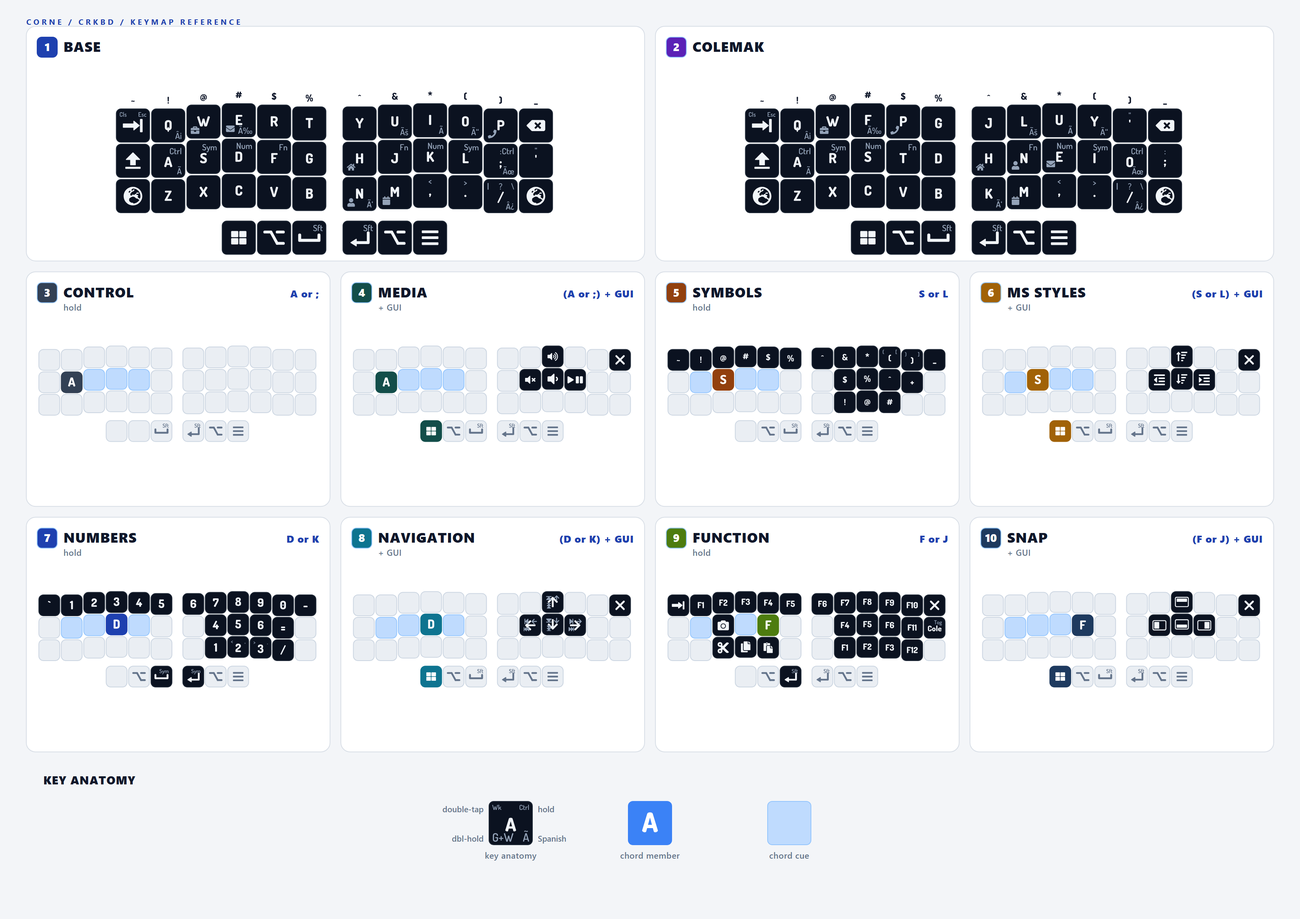
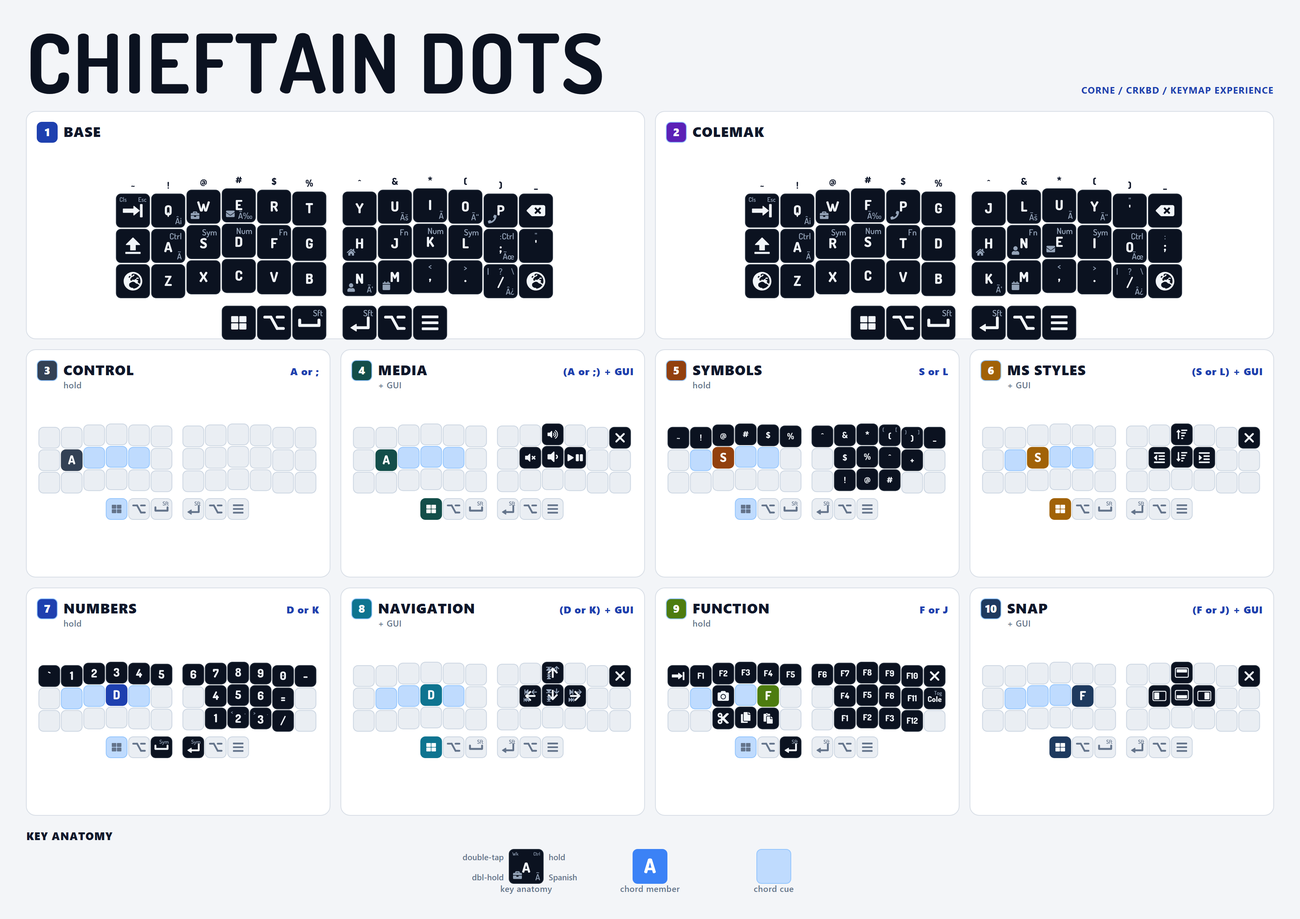
Make Spanish overlay transparent

diff --git a/tools/printable-guide/render_corne_guide.py b/tools/printable-guide/render_corne_guide.py
@@ -32,6 +32,7 @@ TITLE_H = 144
 
 BLUE       = "#1e40af"
 BLUE_DEEP  = "#1e3a8a"
+KEY_DARK   = "#0b1220"
 INK        = "#0f172a"
 MUTED      = "#64748b"
 BG         = "#f3f5f8"
@@ -81,7 +82,7 @@ SYMBOLS = [
      K(""), K("$"), K("%"), K("^"), K("+"), K("")],
     [K(""), K(""), K(""), K(""), K(""), K(""),
      K(""), K("!"), K("@"), K("#"), K(""), K("")],
-    [K(""), K("_KEY_ALT"), K("_KEY_SPACE","Sft"), K("_KEY_ENTER","Sft"), K("_KEY_ALT"), K("_KEY_MENU")],
+    [K("_KEY_GUI"), K("_KEY_ALT"), K("_KEY_SPACE","Sft"), K("_KEY_ENTER","Sft"), K("_KEY_ALT"), K("_KEY_MENU")],
 ]
 
 # NUMBERS â€” full top-row digits, right-hand numpad below.
@@ -95,7 +96,7 @@ NUMBERS = [
      K(""), K("4"), K("5"), K("6"), K("="), K("")],
     [K(""), K(""), K(""), K(""), K(""), K(""),
      K(""), K("1"), K("2", ",", "<"), K("3", ".", ">"), K("/"), K("")],
-    [K(""), K("_KEY_ALT"), K("_KEY_SPACE","Sym"),
+    [K("_KEY_GUI"), K("_KEY_ALT"), K("_KEY_SPACE","Sym"),
      K("_KEY_ENTER","Sym"), K("_KEY_ALT"), K("_KEY_MENU")],
 ]
 
@@ -246,14 +247,14 @@ FUNCTION = [
      K(""), K("F4"), K("F5"), K("F6"), K("F11"), K("Cole","Tog")],
     [K(""), K(""), K("_KEY_CUT"), K("_KEY_COPY"), K("_KEY_PASTE"), K(""),
      K(""), K("F1"), K("F2"), K("F3"), K("F12"), K("")],
-    [K(""), K("_KEY_ALT"), K("_KEY_ENTER","Sft"), K("_KEY_ENTER","Sft"), K("_KEY_ALT"), K("_KEY_MENU")],
+    [K("_KEY_GUI"), K("_KEY_ALT"), K("_KEY_ENTER","Sft"), K("_KEY_ENTER","Sft"), K("_KEY_ALT"), K("_KEY_MENU")],
 ]
 
 CTRL = [
     [K("")]*12,
     [K("")]*12,
     [K("")]*12,
-    [K(""), K(""), K("_KEY_SPACE","Sft"), K("_KEY_ENTER","Sft"), K("_KEY_ALT"), K("_KEY_MENU")],
+    [K("_KEY_GUI"), K("_KEY_ALT"), K("_KEY_SPACE","Sft"), K("_KEY_ENTER","Sft"), K("_KEY_ALT"), K("_KEY_MENU")],
 ]
 
 SNAP = [
@@ -485,6 +486,9 @@ def card_highlights(layer):
     cues = [p for p in HOME_ANCHORS if p != active]
     hue = PARENT_HUE if layer in PARENT_LAYERS else CHILD_HUE
     cue_map = {p: hue[p] for p in cues}
+    if layer in PARENT_LAYERS:
+        cues.append(GUI_THUMB)
+        cue_map[GUI_THUMB] = CHILD_HUE[active]
     return access, set(cues), cue_map
 
 NOTES = {}
@@ -570,6 +574,30 @@ def dosis_text(x, y, text, font_size, fill, anchor="start",
         cur += ginfo["adv"] * scale + letter_spacing
     parts.append('</g>')
     return "".join(parts)
+
+def dosis_width(text, font_size, letter_spacing=0, weight=DOSIS_WEIGHT_TITLE):
+    """Measure Dosis text width in SVG units for fit-to-page layout."""
+    info = _load_dosis_at(weight)
+    scale = font_size / info["upem"]
+    width = 0
+    glyph_count = 0
+    for ch in text:
+        ginfo = _dosis_glyph(weight, ch)
+        if ginfo is None:
+            continue
+        width += ginfo["adv"] * scale + letter_spacing
+        glyph_count += 1
+    if glyph_count:
+        width -= letter_spacing
+    return width
+
+def fit_dosis_text(text, max_width, max_size, min_size=24, letter_spacing=0,
+                   weight=DOSIS_WEIGHT_WORDMARK):
+    """Return the largest integer font size that fits `max_width`."""
+    for size in range(max_size, min_size - 1, -1):
+        if dosis_width(text, size, letter_spacing, weight) <= max_width:
+            return size
+    return min_size
 
 def _load_fa_glyphs():
     """Extract path data + bbox for each FA token from the OTF."""
@@ -1016,7 +1044,9 @@ def draw_key(x, y, w, h, tap, hold, double, dark, highlight, anchor_label,
     if blank and not highlight:
         display = ""
     if secondary:
-        display = ""
+        display = secondary_label or ""
+    if secondary and secondary_label:
+        text = MUTED
 
     is_icon = False
     if display in SNAP_ICONS:
@@ -1215,7 +1245,9 @@ def draw_keyboard(ox, oy, unit, data, dark, access_set,
 
         return draw_key(x, y, unit, unit, tap, hold, double, dark, hl, label,
                         font_main, font_hold,
-                        secondary=sec, embed=emb, font_boost=font_boost,
+                        secondary=sec,
+                        secondary_label=ANCHOR_ICON.get((r, c)) if sec else None,
+                        embed=emb, font_boost=font_boost,
                         palette=key_pal, embed_palette=emb_pal,
                         spanish=spanish, double_hold=double_hold,
                         muted=muted,
@@ -1394,6 +1426,7 @@ def _kb_width_est(unit):
 def build():
     """
     Single landscape page (1680 Ã— 1188):
+      Title     : CHIEFTAIN DOTS wordmark
       Top band  : BASE | COLEMAK  (two alpha cards, full width)
       Row 1     : CTRL | MEDIA  Â·  SYMBOLS | MSSTYLES
       Row 2     : NUMBERS | NAVIGATION  Â·  FUNCTION | SNAP
@@ -1409,19 +1442,19 @@ def build():
     MARGIN     = 34
     usable_w   = PAGE_W - 2 * MARGIN          # 1612
 
-    TOP_H      = 290                           # top band (Base + Colemak)
-    ANAT_H     = 168                           # KEY ANATOMY bottom strip
+    TITLE_BAND = 110                           # Dosis wordmark band
+    ANAT_H     = 86                            # compact KEY ANATOMY bottom strip
     BOT_MARGIN = 20                            # bottom whitespace
     GAP_V      = 14                            # vertical gap between bands
     GAP        = 14                            # consistent gap between ALL cards
 
     # Row heights â€” 3 content rows (2-col, 4-col, 3-col) + anatomy
     # total = PAGE_H - MARGIN - BOT_MARGIN - 4*GAP_V (gaps: before row1, between rows, before anatomy)
-    matrix_total_h = PAGE_H - MARGIN - ANAT_H - BOT_MARGIN - 4 * GAP_V
+    top_y = MARGIN + TITLE_BAND
+    matrix_total_h = PAGE_H - top_y - ANAT_H - BOT_MARGIN - 4 * GAP_V
     row_h = matrix_total_h / 3
 
     # Y positions
-    top_y     = MARGIN
     matrix_y  = [top_y + i * (row_h + GAP_V) for i in range(3)]
     anat_y    = matrix_y[2] + row_h + GAP_V
 
@@ -1436,10 +1469,33 @@ def build():
     bot_unit   = 33
 
     # â”€â”€ Title kicker â”€â”€â”€â”€â”€â”€â”€â”€â”€â”€â”€â”€â”€â”€â”€â”€â”€â”€â”€â”€â”€â”€â”€â”€â”€â”€â”€â”€â”€â”€â”€â”€â”€â”€â”€â”€â”€â”€â”€â”€â”€â”€â”€â”€â”€â”€â”€â”€â”€â”€â”€â”€â”€â”€â”€â”€â”€â”€
+    title_text = "CHIEFTAIN DOTS"
+    title_tracking = 2.0
+    title_size = fit_dosis_text(
+        title_text,
+        usable_w,
+        106,
+        42,
+        letter_spacing=title_tracking,
+        weight=DOSIS_WEIGHT_WORDMARK,
+    )
+    title_baseline = MARGIN + title_size * 0.82
     parts.append(
-        f'<text x="{MARGIN}" y="{MARGIN-2}" {FONTFAM} '
-        f'font-size="10" font-weight="700" fill="{BLUE}" letter-spacing="3.0">'
-        f'CORNE / CRKBD / KEYMAP REFERENCE</text>'
+        dosis_text(
+            MARGIN,
+            title_baseline,
+            title_text,
+            title_size,
+            KEY_DARK,
+            letter_spacing=title_tracking,
+            weight=DOSIS_WEIGHT_WORDMARK,
+        )
+    )
+    parts.append(
+        f'<text x="{PAGE_W - MARGIN}" y="{title_baseline:.1f}" '
+        f'text-anchor="end" {FONTFAM} font-size="12" font-weight="700" '
+        f'fill="{BLUE}" letter-spacing="0.7">'
+        f'CORNE / CRKBD / KEYMAP EXPERIENCE</text>'
     )
 
     # â”€â”€ Top band: BASE + COLEMAK â”€â”€â”€â”€â”€â”€â”€â”€â”€â”€â”€â”€â”€â”€â”€â”€â”€â”€â”€â”€â”€â”€â”€â”€â”€â”€â”€â”€â”€â”€â”€â”€â”€â”€â”€â”€â”€â”€â”€â”€â”€â”€â”€â”€â”€â”€â”€
@@ -1510,15 +1566,15 @@ def build():
     lg_cx = MARGIN
     lg_cy = anat_y
     parts.append(
-        f'<text x="{lg_cx+22}" y="{lg_cy+28}" {FONTFAM} font-size="15" '
+        f'<text x="{lg_cx}" y="{lg_cy+18}" {FONTFAM} font-size="14" '
         f'font-weight="800" fill="{INK}" letter-spacing="0.6">KEY ANATOMY</text>'
     )
-    lg_unit = 56
-    lg_y = lg_cy + 50
+    lg_unit = 44
+    lg_y = lg_cy + 30
     lg_font_main = max(11, int(round(lg_unit * 0.42)))
     lg_font_hold = max(7, int(round(lg_unit * 0.26)))
     # Three sample keys spread across lower-centre of anatomy strip
-    key_spacing = 180   # horizontal gap between key x-origins
+    key_spacing = 160   # horizontal gap between key x-origins
     total_keys_w = 2 * key_spacing + lg_unit
     anat_left = lg_cx + (usable_w - total_keys_w) / 2
     lg_x = [
@@ -1531,7 +1587,7 @@ def build():
     bot_label_y = lg_y + lg_unit - 4
     parts.append(draw_key(lg_x[0], lg_y, lg_unit, lg_unit, "A", "Ctrl", "Wk",
                           True, False, None, lg_font_main, lg_font_hold,
-                          spanish="Ã", double_hold="G+W"))
+                          spanish="Ã", double_hold="_TEXT_WORK"))
     parts.append(f'<text x="{lg_x[0]+lg_unit+label_gap:.1f}" y="{label_y:.1f}" text-anchor="start" {FONTFAM} font-size="10.5" font-weight="600" fill="{label_color}">hold</text>')
     parts.append(f'<text x="{lg_x[0]-label_gap:.1f}" y="{label_y:.1f}" text-anchor="end" {FONTFAM} font-size="10.5" font-weight="600" fill="{label_color}">double-tap</text>')
     parts.append(f'<text x="{lg_x[0]-label_gap:.1f}" y="{bot_label_y:.1f}" text-anchor="end" {FONTFAM} font-size="10.5" font-weight="600" fill="{label_color}">dbl-hold</text>')
@@ -1541,7 +1597,7 @@ def build():
     parts.append(draw_key(lg_x[2], lg_y, lg_unit, lg_unit, "", "", "",
                           True, False, None, lg_font_main, lg_font_hold,
                           secondary=True))
-    caption_y = lg_y + lg_unit + 18
+    caption_y = lg_y + lg_unit + 11
     captions = ["key anatomy", "chord member", "chord cue"]
     for i, text in enumerate(captions):
         parts.append(f'<text x="{lg_x[i]+lg_unit/2:.1f}" y="{caption_y:.1f}" text-anchor="middle" {FONTFAM} font-size="11" font-weight="600" fill="{label_color}" letter-spacing="0.3">{esc(text)}</text>')

diff --git a/layout.h b/layout.h
@@ -133,17 +133,18 @@
 /* Thumbs:                         trans  ALT    SHIFT    ENTER  RALT   MENU */\
 	                            _______, DELAYED_LALT, THUMB_SPACE_SHIFT, RIGHT_THUMBS
 
-// Spanish layer: hold either outside bottom key, then press the matching letter.
+// Spanish is a transparent character overlay: only Spanish-specific keys
+// override Base/Colemak; unrelated keys fall through so mistakes still teach.
 // Double-tap either Spanish key toggles the host input language.
 #define _SPAN \
 /* Top:    ---    ¡      ---    É      ---    ---      ---    Ú      Í      Ó      ---    ---  */\
-	XXXXXXX, ES_IEXL, XXXXXXX, ES_E,    XXXXXXX, XXXXXXX,     XXXXXXX, ES_U,    ES_I,    ES_O,    XXXXXXX, XXXXXXX, \
+	_______, ES_IEXL, _______, ES_E,    _______, _______,     _______, ES_U,    ES_I,    ES_O,    _______, _______, \
 /* Home:   ---    Á      ---    ---    ---    ---      ---    ---    ---    ---    Ü      ---  */\
-	ES_LDAQ, ES_A,    XXXXXXX, XXXXXXX, XXXXXXX, XXXXXXX,     XXXXXXX, XXXXXXX, XXXXXXX, XXXXXXX, ES_UDIA, ES_RDAQ, \
+	ES_LDAQ, ES_A,    _______, _______, _______, _______,     _______, _______, _______, _______, ES_UDIA, ES_RDAQ, \
 /* Bottom: trans  ---    ---    ---    ---    ---      Ñ      ---    ---    ---    ¿      trans */\
-	_______, XXXXXXX, XXXXXXX, XXXXXXX, XXXXXXX, XXXXXXX,     ES_N,    XXXXXXX, XXXXXXX, XXXXXXX, ES_IQUE, _______, \
-/* Thumbs:                         ---    ---    ---      ENTER  RALT   MENU */\
-	                            XXXXXXX, XXXXXXX, XXXXXXX,    RIGHT_THUMBS
+	_______, _______, _______, _______, _______, _______,     ES_N,    _______, _______, _______, ES_IQUE, _______, \
+/* Thumbs:                         trans  trans  trans    trans  trans  trans */\
+	                            _______, _______, _______,    _______, _______, _______
 
 // Home-row wrapper. Only Base/Colemak pass through HRM(...) in corne.json;
 // command layers stay plain so held keys compose predictably with thumbs.

diff --git a/docs/chieftainDots-roadmap.md b/docs/chieftainDots-roadmap.md
@@ -72,6 +72,18 @@ replacement. `Function + X`, `Function + C`, and `Function + V` send
 `Ctrl+X`, `Ctrl+C`, and `Ctrl+V`; physical testing confirmed cut/copy/paste
 work. The short-lived Base/Colemak naked-letter clipboard idea was removed
 before commit because Trello uses plain `c` to archive hovered cards.
+For the R29 four-anchor trial, keep these Function clipboard shortcuts during
+physical testing. If R29 passes and Control on `A/;` makes plain `Ctrl+X/C/V`
+comfortable enough, explicitly review removing the duplicate `Function + X/C/V`
+shortcuts as one small reversible cleanup slice.
+
+Printable guide renderer note: the generated card data reflects the low-byte RGB
+strategy where command layers repeat keycodes so the keymap-driven RGB inspector
+can find them. Parent-card GUI thumbs (`CONTROL`, `SYMBOLS`, `NUMBERS`,
+`FUNCTION`) render as future child-layer/chord cues rather than dark active
+command keys. The `CONTROL` card's left Alt thumb renders as a quiet grey
+modifier key, not as a blank unavailable key, because Control is a standard
+modifier ingredient rather than a real `_CTRL` layer.
 
 Snap stays in the layout, with caveats. In the accepted flashed baseline the
 kept path is deliberate Ctrl+GUI held entry into a Snap surface where `I/J/K/L`
@@ -85,6 +97,15 @@ and `i -> I` produced only a 27-byte dictionary table, but the full inherited
 autocorrect runtime compiled at `28960/28672`, `288` bytes over. Revisit only
 after byte recovery creates enough room or if autocorrect becomes valuable
 enough to trade against another visible feature.
+
+Spanish overlay requirement: Spanish should behave like a transparent writing
+palette, not a blocking command layer. Holding either lower-corner Spanish key
+should override only Spanish-specific positions (`¡`, accented vowels, `ñ`,
+`ü`, `¿`, and Spanish angle quotes). Unrelated letters, punctuation, and thumbs
+should fall through to the active typing layer so a missed accent key produces
+normal typing feedback, such as `Spanish + P` typing `p`, instead of silence.
+Implemented and compiled at `28290/28672`, leaving `382` bytes free, unchanged
+from the previous R29 measurement.
 
 M22 byte recovery is a future discussion, not pre-approved implementation. Any
 candidate must be negotiated before code changes: decide which areas are in or
@@ -150,7 +171,7 @@ three-anchor baseline. Re-flash the right half with the canonical
 | R14 | Compiled | Measure the firmware-size cost of Auto Caps as a reversible compile-only experiment. | Requirement: temporarily disable only the Auto Caps after-punctuation state machine and compile from the same baseline to measure the exact byte savings. Preserve normal Caps Lock, Caps Unlock, Long Caps double-tap behavior, Caps RGB, Spanish compose, Spanish punctuation keys, and Shift behavior. Measurement result: disabling Auto Caps compiled at `22392/28672`, leaving `6280` bytes free, a 760-byte saving from the `23152/28672` baseline. Implementation is intentionally easy to separate in git: `AUTO_CAPS_ENABLE` gates `process_auto_caps_trial()` and its private helpers/state. Decision: Auto Caps is less useful now that Shift moved to the thumbs and the layout trial is working, so this build keeps Caps behavior while removing automatic sentence capitalization. Do not flash unless the user wants this exact compiled slice on the keyboard. |
 | R15 | Compiled | Measure removing stale hold-on-other-key-press per-key plumbing. | Requirement: remove `HOLD_ON_OTHER_KEY_PRESS_PER_KEY` and the userspace `get_hold_on_other_key_press()` callback that always returned `false`, then compile to see whether old home-row Shift timing plumbing still costs bytes. Measurement result: compile stayed at `22392/28672`, leaving `6280` bytes free, so this is not a byte win. It remains behavior-equivalent and may be kept only as clarity cleanup because QMK's default without the define is also "do not choose hold on other key press." If any tap-hold edge case feels different, revert the small `config.h`/`eldestroyer74.c` slice. |
 | R16 | Requirement | Reconsider Navigation as movement-only and keep Office styles-only for the next slice. | Requirement: Navigation should move only, not select. On Navigation, tap `I/J/K/L` sends plain arrows, tap-and-hold holds plain arrows for continuous movement, double-tap-release performs semantic jumps, and double-tap-hold performs movement extremes. Left/Right semantic jumps should use `Ctrl+Left/Right` for word movement. Up/Down semantic jumps should use `Ctrl+Up/Down` first, with `PgUp/PgDn` as a reliability fallback if paragraph/block movement is inconsistent in the host app. Extremes stay inside the Navigation concept: Left/Right = Home/End, Up/Down = Page Up/Page Down unless a later physical trial proves document top/bottom is more useful. Office should be styles-only in the next implementation slice: tap `I/J/K/L` sends `Alt+Shift+Up/Left/Down/Right` for PowerPoint/Word structure. Do not add Office movement/selection hierarchies in the next slice; keep that as a separate later requirement so the OLED-safe baseline is not overloaded again. |
-| R16b | Requirement | Later Office selection hierarchy after the styles-only slice settles. | If Office styles-only proves useful and the OLED-safe baseline remains stable, consider expanding Office into an editing surface for working inside content. Candidate later grammar: tap `I/J/K/L` sends plain arrows for safe movement around text or objects; tap-hold sends `Alt+Shift+Arrow` for PowerPoint/Word structure or style movement; double-tap-release performs selection movement such as `Ctrl+Shift+Left/Right` and `Shift+Up/Down`; double-tap-hold performs extreme selection such as `Shift+Home/End/Page Up/Page Down`. This must be implemented separately from R18 using a small Office-specific helper, not the generalized directional helper that caused OLED-on phantom modifier reports. Compile-measure SRAM/flash before flashing. Remaining open question: whether Office needs fine-nudge behavior later. |
+| R16b | Requirement | Later Office selection hierarchy after the styles-only slice settles. | If Office styles-only proves useful and the OLED-safe baseline remains stable, consider expanding Office into an editing surface for working inside content. Candidate later grammar: tap `I/J/K/L` sends plain arrows for safe movement around text or objects; tap-hold sends `Alt+Shift+Arrow` for PowerPoint/Word structure or style movement; double-tap-release performs selection movement such as `Ctrl+Shift+Left/Right` and `Shift+Up/Down`; double-tap-hold performs extreme selection. Refined hierarchy idea considered: replace the old `Up = Shift+Page Up` extreme with `Up = Ctrl+A` / Select All, making the extreme row `Up = Ctrl+A`, `Left = Shift+Home`, `Down = Shift+Page Down`, `Right = Shift+End`. This favors editing usefulness over directional symmetry, but it does not solve the left-hand-only mouse workflow because Office/Styles lives on the right-hand `I/J/K/L` shape. Therefore it should be treated as parked design history, not the preferred Select All solution for the current editor workflow. This must be implemented separately from R18 using a small Office-specific helper, not the generalized directional helper that caused OLED-on phantom modifier reports. Compile-measure SRAM/flash before flashing. Remaining open question: whether Office needs fine-nudge behavior later. |
 | R17 | Compiled | Remove the Media layer as a reversible trial. | Requirement: leave Media off because volume and Play/Pause are low-value after setup, and Teams mute can be handled later as a deliberate shortcut rather than preserving a whole child layer. Microsoft documents `Ctrl+Shift+M` as Teams mute/unmute on Windows when Teams has the right focus; Windows global mic mute `Win+Alt+K` has mixed reliability in new Teams, so it should be treated as a separate candidate rather than assumed. Current experiment removes `_MEDI`, its layer ID, its Function+GUI tap-dance entry, and its RGB hints. Function+GUI is explicitly blank during the trial so the removed child does not silently fall through to another GUI behavior. Compile succeeded at `22210/28672`, leaving `6462` bytes free, a 182-byte saving from the previous `22392/28672` build. Rollback path: restore the isolated Media slice if losing the layer feels worse than the recovered simplicity/bytes. |
 | R19 | Requirement | Audit host shortcuts consumed by using Ctrl+GUI as Snap entry. | Requirement: if Ctrl+GUI becomes the durable Snap entry, keep a record of Windows shortcuts that may become awkward or hidden, then decide whether any belong on alternate arrow behaviors. Known Windows shortcuts in this family include `Win+Ctrl+Left/Right` for previous/next virtual desktop, `Win+Ctrl+D` for new virtual desktop, `Win+Ctrl+F4` for close current virtual desktop, and `Win+Tab` for Task View. These desktop/workspace shortcuts are no longer on GUI double-tap-hold. If they return, they should be considered inside the Ctrl+GUI Snap chord hierarchy, for example tap = window snap, tap-hold = monitor/maximize/minimize, double tap = desktop/workspace, and double-tap-hold = reserved/destructive-disabled. Keep this as requirements only until the current Snap entry physically works. |
 | R19a | Requirement | Make Ctrl+GUI Snap consume GUI instead of exposing a live Windows hold. | Requirement: when the user is intentionally entering Snap by holding Ctrl and pressing the left GUI thumb, firmware should own the gesture. It should enter Snap window-placement mode and must not register or hold a real GUI/Windows key to the host for that same GUI press. While Snap is active, `I/J/K/L` should send one-shot `Win+Up/Left/Down/Right`; the host should never see `Ctrl+Win+Arrow`. Releasing the GUI thumb should clear Snap mode even if no arrow was pressed, and releasing Ctrl should leave no stuck modifier state. Normal GUI behavior must remain outside the Ctrl+GUI Snap gesture: GUI tap still sends Windows, GUI hold on Base still holds Windows, and anchor + GUI without Ctrl still enters the anchor's child layer. GUI double-tap-hold has no separate Snap behavior in the current trial. Open question before implementation: should Snap entry accept only the physical home-row Ctrl source, or should any host-visible Ctrl modifier also qualify? Recommended trial answer: physical home-row Ctrl source only, because the current bug smells like host modifier timing and split/mod-tap resolution. |

diff --git a/keymap-principles.md b/keymap-principles.md
@@ -85,6 +85,21 @@ commands, explicit modifier positions, or a dedicated editing layer. The layer
 table should still explain what the key does without requiring the user to
 remember nested tap-hold rules.
 
+### Distinguish Modifiers From Anchors
+
+Traditional modifiers such as Ctrl, Shift, Alt, and GUI are keyboard ingredients,
+not ChieftainDots command layers. They should keep their normal host behavior
+and should not be visually or conceptually promoted into custom layers just
+because they change what another key does.
+
+ChieftainDots anchors exist to make up for missing physical keys on the Corne:
+Symbols, Numbers, Function/System, Snap, Navigation, Media, Office, and similar
+surfaces may use stronger OLED/RGB discovery feedback because they are custom
+command modes. Plain modifiers may have feedback, but it should stay quieter and
+physically grounded. If a future design treats a modifier like a layer, push back
+first and decide whether the user-facing benefit is worth blurring this
+distinction.
+
 ### Make Editing Keys Layer-Aware
 
 Physical key positions can keep a related meaning across layers while changing
@@ -230,6 +245,10 @@ RGB should also distinguish present state from future choice:
   blank keys; active chord thumbs should stay in the chord color, and
   layer-specific thumb changes should stay dark/high-contrast so the changed
   behavior is the thing the eye learns.
+- Printable guide chord affordances should be visually quieter than active
+  chord members. A parent-card thumb that previews a future chord may keep the
+  pale future-layer cue background, but its icon should use the muted thumb-row
+  grey rather than the destination layer's saturated text color.
 - Diagram styling must not override behavior truth. Before muting, highlighting,
   or changing an icon, confirm the key's tap and hold behavior in `layout.h`;
   the printable guide can simplify visual weight, but it must not invent a

diff --git a/docs/chieftainDots-printable-layer-guide.md b/docs/chieftainDots-printable-layer-guide.md
@@ -146,11 +146,15 @@ Colemak uses the same Spanish lower corners and `/` tap dance as Base.
 
 Access: hold either lower corner.
 
+Spanish is a transparent character overlay. If a key is not a Spanish
+character, it falls through to the active typing layer so mistakes produce normal
+typing feedback instead of silence.
+
 ```text
----      ¡      ---    É      ---    ---        ---    Ú      Í      Ó      ---    ---
-«        Á      ---    ---    ---    ---        ---    ---    ---    ---    Ü      »
-trans    ---    ---    ---    ---    ---        Ñ      ---    ---    ---    ¿      trans
-                         ---    ---    ---         trans  trans  trans
+trans    ¡      trans  É      trans  trans      trans  Ú      Í      Ó      trans  trans
+«        Á      trans  trans  trans  trans      trans  trans  trans  trans  Ü      »
+trans    trans  trans  trans  trans  trans      Ñ      trans  trans  trans  ¿      trans
+                         trans  trans  trans       trans  trans  trans
 ```
 
 Use Shift first for capitals:

diff --git a/docs/chieftainDots-architecture.md b/docs/chieftainDots-architecture.md
@@ -69,8 +69,10 @@ recipes should be created from the current layer model when a real port starts.
 - Text Snippets: safe-to-type personal snippets on mnemonic Base/Colemak
   double-tap-hold letters. Private string values must live in ignored local
   files.
-- Spanish: accented letters, punctuation, angle quotes, and input-language
-  switching from the lower-corner Spanish keys.
+- Spanish: a transparent character overlay for accented letters, punctuation,
+  angle quotes, and input-language switching from the lower-corner Spanish keys.
+  Only Spanish-specific key positions override Base/Colemak; unrelated keys
+  fall through so mistyped positions produce normal typing feedback.
 
 ## Cross-Layer Key Roles
 
